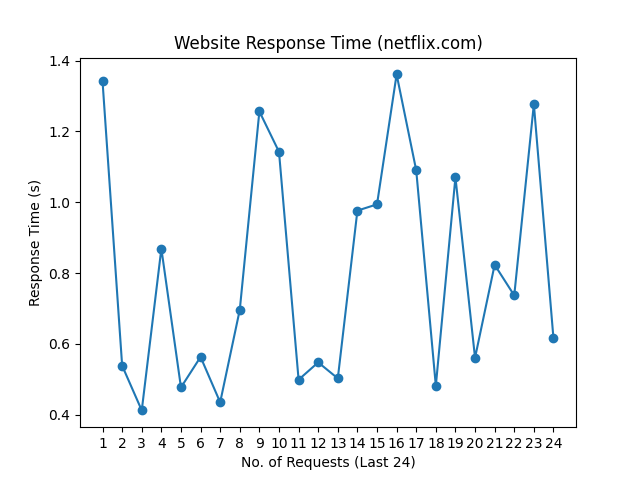
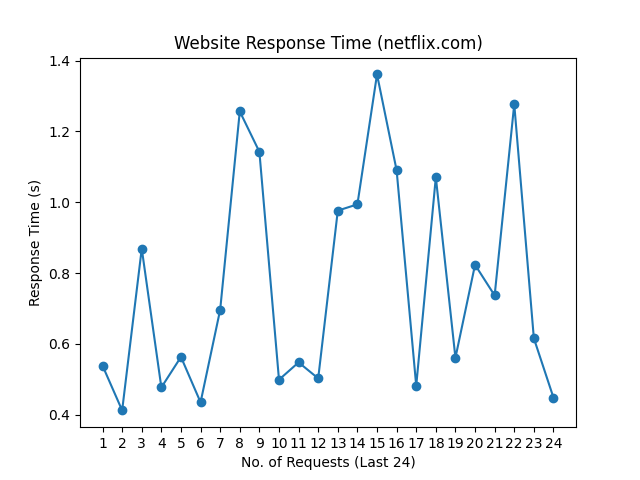
update README.md, history and graph

Changed region(s): [[0.1562, 0.125, 0.875, 0.875], [0.8438, 0.75, 0.875, 0.8438]]

diff --git a/README.md b/README.md
@@ -1,10 +1,10 @@
 # Web Monitoring
 
-Last Checked: 27/01/2024 08:59
+Last Checked: 28/01/2024 09:04
 
 | Website | Response Time (s) | Status | Avg Uptime (%) |
 |---------|-------------------|--------|----------------|
 | www.thiswebsiteisdown.net | 0 <br> <img src="graph/thiswebsiteisdown.net.png" alt="Graph" width="200" height="200">  | ❌ Down | 0.00 |
-| www.netflix.com | 0.616000 <br> <img src="graph/netflix.com.png" alt="Graph" width="200" height="200">  | ✅ Up | 100.00 |
-| www.google.com | 0.074195 <br> <img src="graph/google.com.png" alt="Graph" width="200" height="200">  | ✅ Up | 100.00 |
-| www.facebook.com | 0.433937 <br> <img src="graph/facebook.com.png" alt="Graph" width="200" height="200">  | ✅ Up | 100.00 |
+| www.netflix.com | 0.448570 <br> <img src="graph/netflix.com.png" alt="Graph" width="200" height="200">  | ✅ Up | 100.00 |
+| www.google.com | 0.079733 <br> <img src="graph/google.com.png" alt="Graph" width="200" height="200">  | ✅ Up | 100.00 |
+| www.facebook.com | 0.426194 <br> <img src="graph/facebook.com.png" alt="Graph" width="200" height="200">  | ✅ Up | 100.00 |
